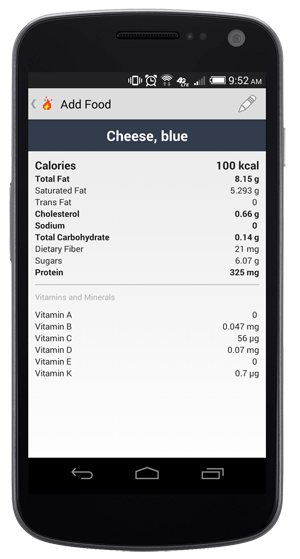
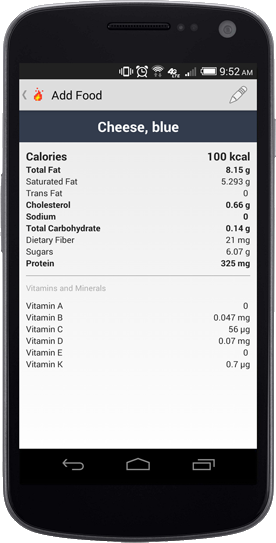
trimmed images, fixed swap-modal code and added code that should remove hash on modal dismiss

diff --git a/index.html b/index.html
@@ -101,7 +101,7 @@
             <div class="row">
                 <div class="col-lg-12 text-center">
                     <h2 class="section-heading">About</h2><hr>
-                    <h4 class="section-subheading ">I enjoy exercising, motorcycling, problem solving, &amp; learning.</h4>
+                    <h4 class="section-subheading ">I enjoy exercise, motorcyces, problem solving, &amp; learning.</h4>
                 </div>
             </div>
             <div class="row text-center newspaper">
@@ -428,14 +428,26 @@
                         <li>Burlington, Vermont</li>
                     </ul>
                     <ul class="list-inline social-buttons">
-                        <li><a href="https://plus.google.com/111859190494333798830/about"><img id="github" src="img/logos/gplus.png" alt="google + logo"></a></li>
-                        <li><a href="https://instagram.com/sithlord_bniz/">
-                        <img id="instagram" src="img/logos/instagram.gif" alt="instagram logo"/></a>
+                        <li>
+                            <a class="fab gold-bg" href="https://plus.google.com/111859190494333798830/about">
+                                <img class="gplus" src="img/logos/gplus.png" alt="google + logo">
+                            </a>
                         </li>
-                        <li><a href="https://www.linkedin.com/pub/brandt-newton/91/270/649"><img id="linkedin" src="img/logos/linkedin.png" alt="linked in logo"/></a>
+                        <li>
+                            <a class="fab gold-bg" href="https://instagram.com/sithlord_bniz/">
+                                <img class="instagram" src="img/logos/instagram.gif" alt="instagram logo"/>
+                            </a>
+                        </li>
+                        <li>
+                            <a class="fab gold-bg" href="https://www.linkedin.com/pub/brandt-newton/91/270/649">
+                                <img class="linkedin" src="img/logos/linkedin.png" alt="linked in logo"/>
+                            </a>
                         </li>                        
-                        <li><a data-toggle="modal" data-target="#git-checkpoint">
-                        <img id="github" src="img/logos/github.png" alt="github logo"></a></li>
+                        <li>
+                            <a class="fab gold-bg" data-toggle="modal" data-target="#git-checkpoint">
+                                <img class="github" src="img/logos/github.png" alt="github logo">
+                            </a>
+                        </li>
                     </ul>
                 </div>
             </div>
@@ -482,7 +494,7 @@
     <!-- Portfolio Modal 1 -->
     <div class="portfolio-modal modal fade" id="project-expulse" tabindex="-1" role="dialog" aria-hidden="true">
         <div class="modal-content">
-            <div class="close-modal" data-dismiss="modal">
+            <div class="close-modal close-modal-btn" data-dismiss="modal">
                 <div class="lr">
                     <div class="rl">
                     </div>
@@ -495,7 +507,7 @@
                             <!-- Project Details Go Here -->
                             <h2>Expulse.org</h2>
                             <h4 class="item-intro ">A private &amp; secure support network.</h4>
-                            <img class="img-responsive thin-border shadow" src="img/portfolio/expulse_screen.jpg"></img>
+                            <img class="img-responsive thin-border shadow portfolio-img" src="img/portfolio/expulse_screen.jpg"></img>
                             <p><a href="http://expulse.org">Expulse.org</a> allows a people who have been forced from a specific religious community to privately and securely connect with a support network. A vouching system allows the support network to add new users to the "inner-circle" which allows them access to additional features. Developed with PHP, MySQL and JS on an Apache Server. Tested by over 15 members of the target audience.</p>
                             <h4 class="item-section">Tools &amp; Technologies</h4><hr>
                             <p>HTML, PHP, MySQL, CSS, JavaScript, JQuery, and Google Analytics</p>
@@ -512,7 +524,7 @@
                                 <li>Client: Paul Newton</li>
                                 <li>Category: Website Design</li>
                             </ul>
-                            <button type="button" class="btn btn-primary" data-dismiss="modal"><i class="fa fa-times"></i> Close Project</button>
+                            <button type="button" class="btn btn-primary close-modal-btn" data-dismiss="modal"><i class="fa fa-times"></i> Close Project</button>
                         </div>
                     </div>
                 </div>
@@ -523,7 +535,7 @@
     <!-- Portfolio Modal 2 -->
     <div class="portfolio-modal modal fade" id="project-builder" tabindex="-1" role="dialog" aria-hidden="true">
         <div class="modal-content">
-            <div class="close-modal" data-dismiss="modal">
+            <div class="close-modal close-modal-btn" data-dismiss="modal">
                 <div class="lr">
                     <div class="rl">
                     </div>
@@ -535,13 +547,13 @@
                         <div class="modal-body">
                             <h2>Buildr</h2>
                             <h4 class="item-intro ">Compare your computer hardware</h4>
-                            <img class="img-responsive img-centered shadow" src="img/portfolio/buildr_screen.jpg"></img>
+                            <img class="img-responsive img-centered shadow portfolio-img" src="img/portfolio/buildr_screen.jpg"></img>
                             <p><a href="https://btnewton.w3.uvm.edu/cs148/assignment10/public/">Buildr</a> allows users to post the hardware and design specifications of their computer as well as a description and pictures. Users can view and comment on and like other's computers. Statistics on popular hardware, computers and designs are also available to help prospective system builders with design choices.</p>
                             <h4 class="item-section">Tools &amp; Technologies</h4><hr>
                             <p>HTML, PHP, MySQL, Apache, CSS, JavaScript, JQuery, Charts.js API &amp; <a href="https://github.com/btnewton/CS-148-Final-Project">GitHub</a></p>
                             <h4 class="item-section">Accomplishments</h4><hr>
                             <p>Won best in class: Intermediate Web Design at the 2014 <a href="http://www.uvm.edu/~csfair/2014/home.php">UVM CS Fair</a> Sponsored by Google</p>
-                            <button type="button" class="btn btn-primary" data-dismiss="modal"><i class="fa fa-times"></i> Close Project</button>
+                            <button type="button" class="btn btn-primary close-modal-btn" data-dismiss="modal"><i class="fa fa-times"></i> Close Project</button>
                         </div>
                     </div>
                 </div>
@@ -551,7 +563,7 @@
 
     <div class="portfolio-modal modal fade" id="project-woodsmen" tabindex="-1" role="dialog" aria-hidden="true">
         <div class="modal-content">
-            <div class="close-modal" data-dismiss="modal">
+            <div class="close-modal close-modal-btn" data-dismiss="modal">
                 <div class="lr">
                     <div class="rl">
                     </div>
@@ -564,19 +576,14 @@
                             <!-- Project Details Go Here -->
                             <h2>Woodsmen</h2>
                             <h4 class="item-intro ">2D Java Game</h4>
-                            <img class="img-responsive img-centered shadow" src="img/portfolio/woodsmen_screen.png"></img>
-                            <div class="clearfix">
-                                <a href="https://github.com/btnewton/Lumberjack">
-                                    <img id="github" src="img/logos/github.png" class="img-right" alt="github logo">
-                                </a>
-                            </div>
+                            <img class="img-responsive img-centered shadow portfolio-img" src="img/portfolio/woodsmen_screen.png"></img>
                             <p>Less than half a year after completing my first programming course (taught in MATLAB) I submitted this game, which is still a work in progress, to the 2013 UVM CS Fair. I followed a tutorial series to get the initial framework down and then optimized it and added features. <a href="https://www.youtube.com/watch?v=rx_Gez6GuVU">This is a video of the submission.</a></p>
                             <p>Since the 2013 UVM CS Fair I have made some changes but it has never been my primary focus. I enjoy creating the graphics and coming up with new ways to increase the average FPS.</p>
                             <h4 class="item-section">Tools &amp; Technologies</h4><hr>
                             <p>Java, <a href="https://github.com/btnewton/Lumberjack">Github</a>, FL Studio (SFX), and Paint.net (GFX)</p>
                             <h4 class="item-section">Accomplishments</h4><hr>
                             <p>Won best in class: Java Programming at the 2013 <a href="http://www.uvm.edu/~csfair/2013/home.php">UVM CS Fair</a> Sponsored by Google</p>
-                            <button type="button" class="btn btn-primary" data-dismiss="modal"><i class="fa fa-times"></i> Close Project</button>
+                            <button type="button" class="btn btn-primary close-modal-btn" data-dismiss="modal"><i class="fa fa-times"></i> Close Project</button>
                         </div>
                     </div>
                 </div>
@@ -586,7 +593,7 @@
 
     <div class="portfolio-modal modal fade" id="project-bfg" tabindex="-1" role="dialog" aria-hidden="true">
         <div class="modal-content">
-            <div class="close-modal" data-dismiss="modal">
+            <div class="close-modal close-modal-btn" data-dismiss="modal">
                 <div class="lr">
                     <div class="rl">
                     </div>
@@ -599,10 +606,10 @@
                             <!-- Project Details Go Here -->
                             <h2>Barre Forest App</h2>
                             <h4 class="item-intro ">An iOS town forest guide.</h4>
-                            <img class="img-responsive img-centered" src="img/portfolio/bfg_screen.png"></img>
+                            <img class="img-responsive img-centered portfolio-img" src="img/portfolio/bfg_screen.png"></img>
                             <p>This app was created in CS 275: Mobile Apps &amp; Embedded Devices for the Barre town forest. It was designed to assist forest users in navigating the various walking and biking trails, historic sites and Frisbee golf course. We chose to use Google Maps and SQLite so our app could be more easily ported to Android. This was completed in one semester.</p>
                             <p>I created the application's SQLite database, and a Python script to convert and insert the KML trail data into the database.</p>
-                            <p>I was unhappy with what I learned during this Fall semester project, so I spent that Christmas break learning Android. This is when I began developing my <a class="swap-modal" href="#portfolioModal-diet" data-dismiss="modal">dieting</a> and <a class="swap-modal" href="#portfolioModal-repcheck" data-dismiss="modal">weight-lifting</a> apps.</p>
+                            <p>I was unhappy with what I learned during this Fall semester project, so I spent that Christmas break learning Android. This is when I began developing my <a class="swap-modal" href="#project-diet" data-dismiss="modal">dieting</a> and <a class="swap-modal" href="#project-repcheck">weight-lifting</a> apps.</p>
                             <h4 class="item-section">Tools &amp; Technologies</h4><hr>
                             <p>Objective-C, SQLite, Python, and KML</p>
                             <h4 class="item-section">Role &amp; Responsibilities</h4><hr>
@@ -613,7 +620,7 @@
                             </ul>
                             <h4 class="item-section">Accomplishments</h4><hr>
                             <p>All expected goals were met by the end of the semester and the stakeholder plans to launch the app.</p>
-                            <button type="button" class="btn btn-primary" data-dismiss="modal"><i class="fa fa-times"></i> Close Project</button>
+                            <button type="button" class="btn btn-primary close-modal-btn" data-dismiss="modal"><i class="fa fa-times"></i> Close Project</button>
                         </div>
                     </div>
                 </div>
@@ -623,7 +630,7 @@
 
     <div class="portfolio-modal modal fade" id="project-diet" tabindex="-1" role="dialog" aria-hidden="true">
         <div class="modal-content">
-            <div class="close-modal" data-dismiss="modal">
+            <div class="close-modal close-modal-btn" data-dismiss="modal">
                 <div class="lr">
                     <div class="rl">
                     </div>
@@ -636,7 +643,7 @@
                             <!-- Project Details Go Here -->
                             <h2>Dietary Android App</h2>
                             <h4 class="item-intro ">A specialized dietary Android app.</h4>
-                            <img class="img-responsive img-centered" src="img/portfolio/diet_screen.png"></img>
+                            <img class="img-responsive img-centered portfolio-img" src="img/portfolio/diet_screen.png"></img>
                             <p>This work in progress was inspired by interest in nutrition, event driven programming and the Android operating system. I also wanted to learn more about mobile app development than was taught in class. I am also teaching myself JUnit testing.</p>
                             <p>I do plan on releasing this app when it is finished.</p>
                             <h4 class="item-section">Working Features</h4><hr>
@@ -652,7 +659,7 @@
                             <p>Android OS, Java, SQLite, PHP, MySQL, Git, JUnit 3, &amp; USDA API</p>
                             <h4 class="item-section">Role &amp; Responsibilities</h4><hr>
                             <p>I am designing &amp; creating every aspect of this app in my free time.</p>
-                            <button type="button" class="btn btn-primary" data-dismiss="modal"><i class="fa fa-times"></i> Close Project</button>
+                            <button type="button" class="btn btn-primary close-modal-btn" data-dismiss="modal"><i class="fa fa-times"></i> Close Project</button>
                         </div>
                     </div>
                 </div>
@@ -662,7 +669,7 @@
 
     <div class="portfolio-modal modal fade" id="project-calculator" tabindex="-1" role="dialog" aria-hidden="true">
         <div class="modal-content">
-            <div class="close-modal" data-dismiss="modal">
+            <div class="close-modal close-modal-btn" data-dismiss="modal">
                 <div class="lr">
                     <div class="rl">
                     </div>
@@ -675,7 +682,7 @@
                             <!-- Project Details Go Here -->
                             <h2>Code Design</h2>
                             <h4 class="item-intro">An example of code design</h4>
-                            <img class="img-responsive img-centered shadow" src="img/portfolio/calc_screen.png"></img>
+                            <img class="img-responsive img-centered shadow portfolio-img" src="img/portfolio/calc_screen.png"></img>
                             <p>In about 10 hours I began to learn the .NET Framework and produced a Windows Form calculator app. <br>Check out the code <a href="https://github.com/btnewton/Calculator">here</a>.</p></p>
 
                             <h4 class="item-section">MVC <span style="text-transform: lowercase;">(ish)</span></h4><hr>
@@ -774,7 +781,7 @@ public void Execute()
 </pre>
                             <h4 class="item-section">Tools &amp; Technologies</h4><hr>
                             <p>.NET Framework, C# &amp; <a href="https://github.com/btnewton/Calculator">GitHub</a></p>
-                            <button type="button" class="btn btn-primary" data-dismiss="modal"><i class="fa fa-times"></i> Close Project</button>
+                            <button type="button" class="btn btn-primary close-modal-btn" data-dismiss="modal"><i class="fa fa-times"></i> Close Project</button>
                         </div>
                     </div>
                 </div>
@@ -784,7 +791,7 @@ public void Execute()
 
     <div class="portfolio-modal modal fade" id="project-mach7" tabindex="-1" role="dialog" aria-hidden="true">
         <div class="modal-content">
-            <div class="close-modal" data-dismiss="modal">
+            <div class="close-modal close-modal-btn" data-dismiss="modal">
                 <div class="lr">
                     <div class="rl">
                     </div>
@@ -796,7 +803,7 @@ public void Execute()
                         <div class="modal-body">
                             <h2>Mach7 Internship</h2>
                             <h4 class="item-intro ">Redesigned a Mach7 Product</h4>
-                            <img class="img-responsive img-centered shadow" src="img/portfolio/mach7_screen.png"></img>
+                            <img class="img-responsive img-centered shadow portfolio-img" src="img/portfolio/mach7_screen.png"></img>
                             <p>I started working for <a href="http://www.mach7t.com/">Mach7 Technologies</a> May 2015 as a summer Software Developer Intern. My summer project was to modernize their <a href="http://www.mach7t.com/solutions/data/rapid-migration/">Rapid Migaration Utility</a>. The initial goal was to simply translate the existing Visual Basic code to C#. However, during the first design meeting the requirements changed into a complete redesign of the existing product. The original tool was a Windows Form app but was mostly run in the background. The product was redesigned as a Windows Service with an MVC Web Application front end.</p>
                             <h4 class="item-section">How It Works</h4><hr>
                             <p>A Migration consists of a 3 modular components. The catalog component queries source systems for DICOM to move. The delivery component moves DICOM objects from one system to another. The verify component ensures that DICOM objects were correctly transfered, marking them to be resent when needed. The web app is used to create, configure, control and monitor all migrations. Migrations will run for long periods of time, moving massive amounts of data to new systems.</p>
@@ -805,7 +812,7 @@ public void Execute()
                             <p>The front end clean is clean and informative. The service runs on a flexible and powerful Migration framework that handles the workflow and manages alerts, monitoring and dynamic thread creation. The framework was also designed to simplify adding new components. Migrations can be manually operated or scheduled independently.</p>
                             <h4 class="item-section">Tools &amp; Technologies</h4><hr>
                             <p>C#, SQL, DICOM Library, Chart.js, jqGrid, Visual Studio &amp; TFS</p>
-                            <button type="button" class="btn btn-primary" data-dismiss="modal"><i class="fa fa-times"></i> Close Project</button>
+                            <button type="button" class="btn btn-primary close-modal-btn" data-dismiss="modal"><i class="fa fa-times"></i> Close Project</button>
                         </div>
                     </div>
                 </div>
@@ -815,7 +822,7 @@ public void Execute()
 
     <div class="portfolio-modal modal fade" id="project-repcheck" tabindex="-1" role="dialog" aria-hidden="true">
         <div class="modal-content">
-            <div class="close-modal" data-dismiss="modal">
+            <div class="close-modal close-modal-btn" data-dismiss="modal">
                 <div class="lr">
                     <div class="rl">
                     </div>
@@ -827,10 +834,10 @@ public void Execute()
                         <div class="modal-body">
                             <h2>Rep Check</h2>
                             <h4 class="item-intro ">A Powerful One Rep Max Calculator</h4>
-                            <img class="img-responsive img-centered" src="img/portfolio/repcheck_screen.png"></img>
+                            <img class="img-responsive img-centered portfolio-img" src="img/portfolio/repcheck_screen.png"></img>
                             <div class="clearfix">
                                 <div class="col-sm-offset-4 col-sm-4">
-                                <a href="https://play.google.com/store/apps/details?id=com.brandtnewtonsoftware.rep_check"><img class="img-right play-store-logo" src="img/logos/gplay.png"></img></a>
+                                    <a href="https://play.google.com/store/apps/details?id=com.brandtnewtonsoftware.rep_check"><img class="float-right play-store-logo" style="margin-bottom: 30px;" src="img/logos/gplay.png"></img></a>
                                 </div>
                             </div>
                             <p>While this project was only meant to be a trial run for publishing an app to Google Play, it turned into a nice little app. The interface supports an efficient workflow and encourages users to only track their primary exercises to keep sessions short but frequent.</p>
@@ -847,7 +854,7 @@ public void Execute()
                             </ul>
                             <h4 class="item-section">Tools &amp; Technologies</h4><hr>
                             <p>Android OS, Java, SQLite, Git, JUnit 3</p>
-                            <button type="button" class="btn btn-primary" data-dismiss="modal"><i class="fa fa-times"></i> Close Project</button>
+                            <button type="button" class="btn btn-primary close-modal-btn" data-dismiss="modal"><i class="fa fa-times"></i> Close Project</button>
                         </div>
                     </div>
                 </div>

diff --git a/css/agency.css b/css/agency.css
@@ -430,8 +430,12 @@ fieldset[disabled] .btn-xl.active {
     cursor: pointer;
 }
 
-img.img-right {
+.float-right {
     float: right;
+}
+
+.float-left {
+    float: left;
 }
 
 img.play-store-logo {
@@ -653,6 +657,9 @@ ul.social-buttons {
 
 ul.social-buttons li a {
     margin: 0 10px;
+}
+
+.fab {
     display: block;
     width: 45px;
     height: 45px;
@@ -661,7 +668,6 @@ ul.social-buttons li a {
     line-height: 40px;
     outline: 0;
     opacity: 1;
-    background-color: #ddd;
     -webkit-transition: all .3s;
     -moz-transition: all .3s;
     transition: all .3s;
@@ -669,21 +675,24 @@ ul.social-buttons li a {
     box-shadow: 0 2px 5px rgba(0,0,0,0.3);
 }
 
+.gold-bg {
+    background-color: rgb(255, 215, 0);
+}
+.gray-bg {
+    background-color: #DDD;
+}
+
 ul.social-buttons li {
     margin-bottom: 20px;
 }
 
-#linkedin {
+.fab .linkedin {
     position: relative;
     left: 2px;
     width: 32px;
 }
 
-#github {
-    width: 32px;
-}
-
-#instagram {
+.fab img {
     width: 32px;
 }
 
@@ -698,13 +707,6 @@ ul.social-buttons li {
 
 .agency-modal .modal-content{
     border-radius: 0 !important;
-}
-
-ul.social-buttons li a:hover,
-ul.social-buttons li a:focus,
-ul.social-buttons li a:active {
-    background-color: #ffd700;
-    opacity: 1;
 }
 
 .btn:focus,

diff --git a/js/portfolio.js b/js/portfolio.js
@@ -1,25 +1,12 @@
 // Written by Brandt Newton for brandtnewton.com -2014
 
 $( document ).ready(function() {
-	hitbox = $( ".portfolio-item-container" );
-	content = $(".portfolio-hover-content");
-	hover_box = $(".portfolio-hover");
-
-	content.hide();
-	hover_box.css("opacity", "0");
-
-	hitbox.hover(
-		function() {
-			$( this ).find(content).stop(true).fadeIn();
-			$( this ).find(".portfolio-hover").stop(true).animate({opacity: "." });
-		},
-		function() {
-			$( this ).find(content).stop(true).fadeOut();
-			$(this).find(".portfolio-hover").stop(true).animate({opacity: "0"});
-		}
-	);
-
 	$(".swap-modal").click(function() {
+		$('.modal').modal('hide');
 		$($(this).attr('href')).modal('show');
+	});
+
+	$(".close-modal-btn").click(function() {
+		history.pushState('', document.title, window.location.pathname);
 	});
 });

diff --git a/css/portfolio.css b/css/portfolio.css
@@ -171,7 +171,7 @@ div.portfolio-hover:hover hr {
     margin-bottom: 30px;
 }
 
-.portfolio-modal .modal-content img {
+.portfolio-img, .portfolio-modal .fab {
     margin-bottom: 30px;
 }
 
